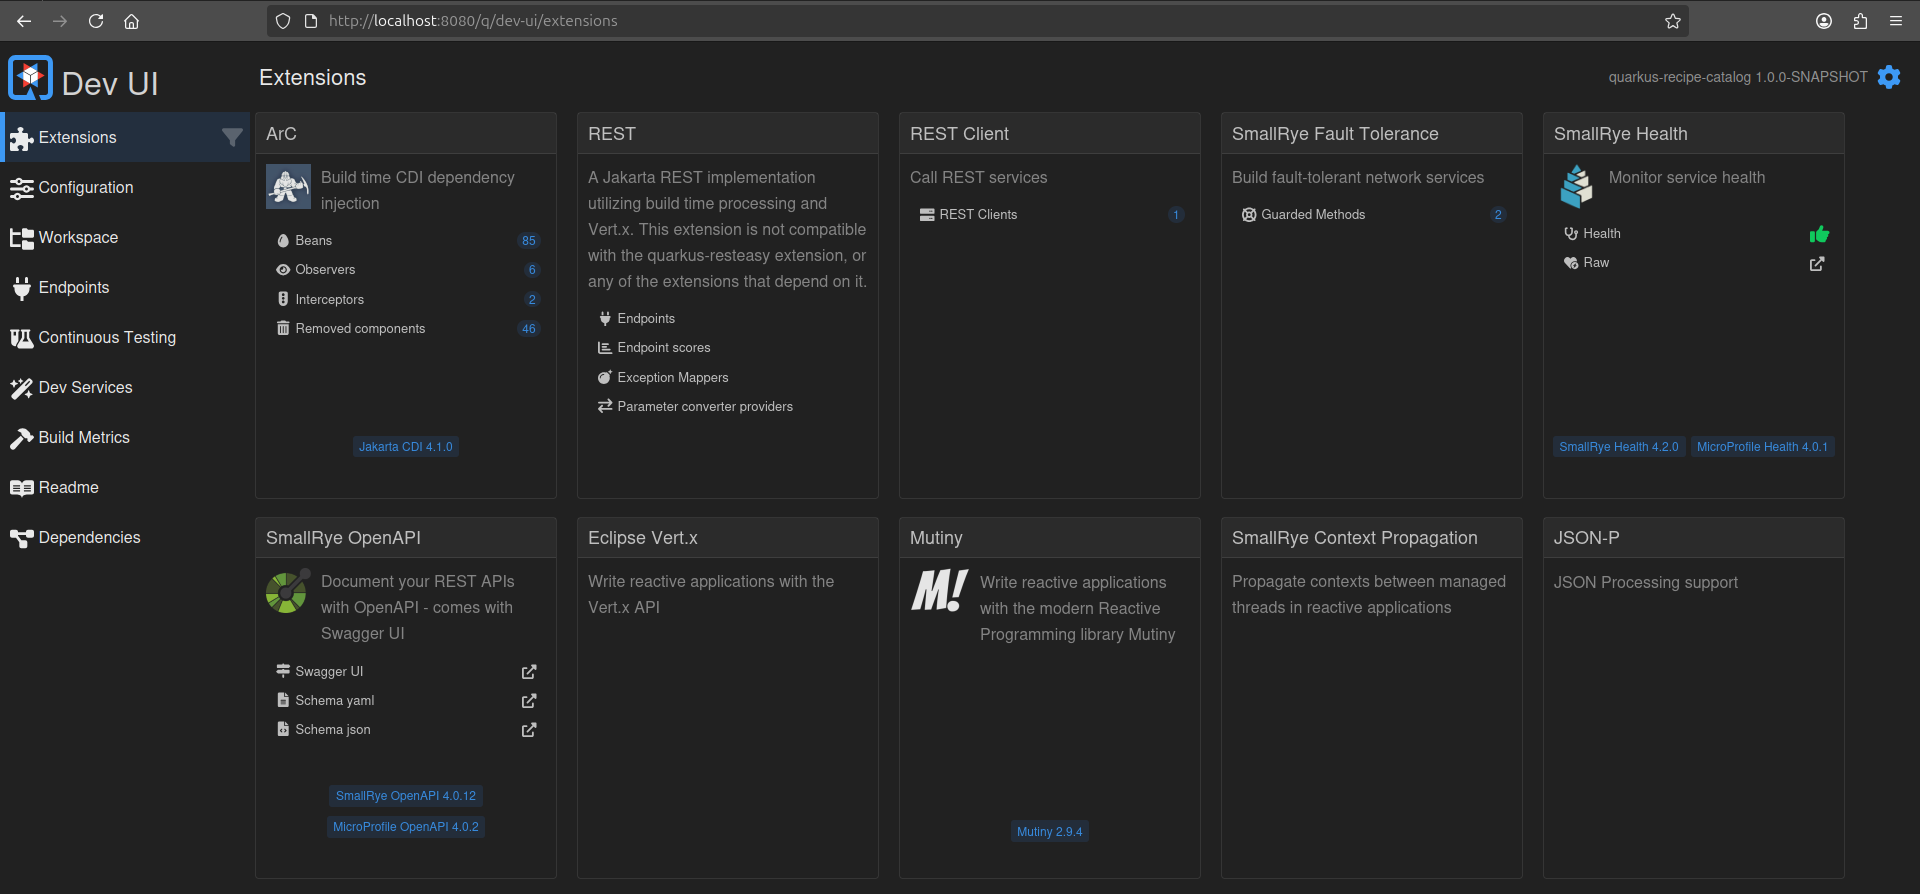
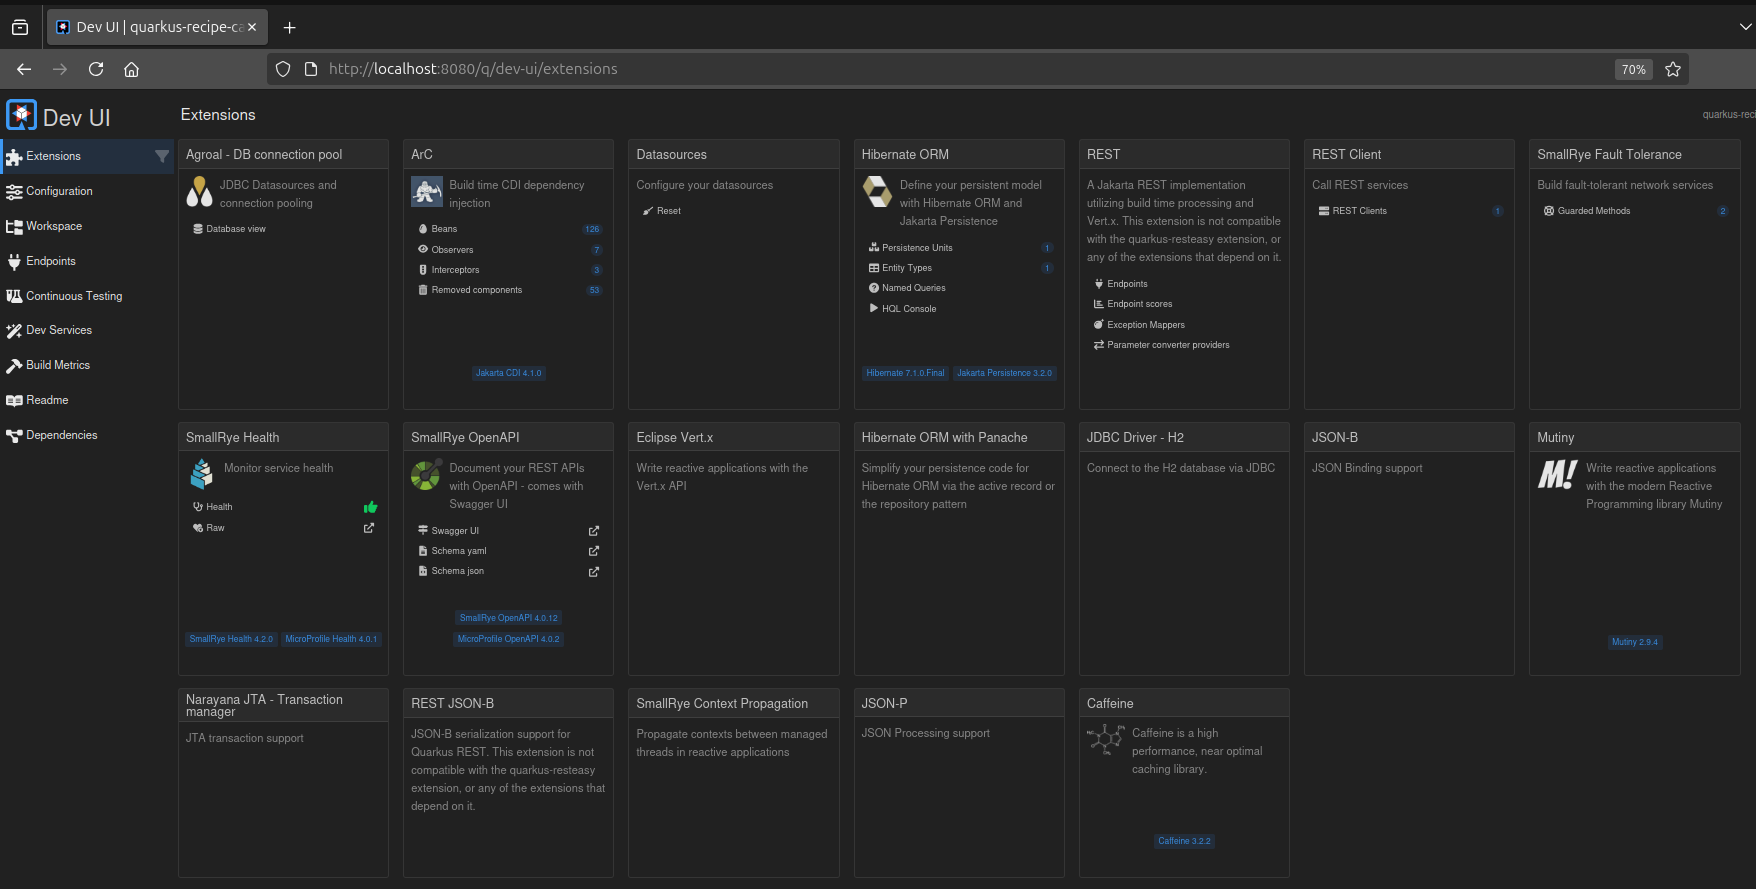
Add MyClient entity and respective Repository and Controller classes (with full-CRUD endpoints)
.

.

.

.

diff --git a/src/main/java/com/danielpm1982/MyClientResource.java b/src/main/java/com/danielpm1982/MyClientResource.java
@@ -1,0 +1,138 @@
+package com.danielpm1982;
+import jakarta.transaction.Transactional;
+import jakarta.ws.rs.*;
+import jakarta.ws.rs.core.MediaType;
+import jakarta.ws.rs.core.Response;
+import org.jboss.resteasy.reactive.RestPath;
+import org.jboss.resteasy.reactive.RestQuery;
+
+@Path("/recipe-app/clients")
+public class MyClientResource {
+    @GET
+    @Path("")
+    @Produces(MediaType.APPLICATION_JSON)
+    public Response getMyClients(){
+        return Response.status(Response.Status.OK)
+                .entity(MyClient.listAll())
+                .type(MediaType.APPLICATION_JSON_TYPE)
+                .build();
+    }
+    @GET
+    @Path("/{id}")
+    @Produces(MediaType.APPLICATION_JSON)
+    public Response getMyClientById(@RestPath Long id){
+        MyClient myClient = MyClient.findById(id);
+        if(myClient!=null) {
+            return Response.status(Response.Status.OK)
+                    .entity(myClient)
+                    .type(MediaType.APPLICATION_JSON_TYPE)
+                    .build();
+        } else{
+            return Response.status(Response.Status.NOT_FOUND)
+                    .entity("ERROR: No registry found for the requested id ! Try again with a valid id !")
+                    .type(MediaType.APPLICATION_JSON_TYPE)
+                    .build();
+        }
+    }
+    @GET
+    @Path("find-by-email")
+    @Produces(MediaType.APPLICATION_JSON)
+    public Response findMyClientsByEmail(@RestQuery String email){
+        return Response.status(Response.Status.OK)
+                .entity(MyClient.findClientByEmail(email))
+                .type(MediaType.APPLICATION_JSON_TYPE)
+                .build();
+    }
+    @GET
+    @Path("find-by-name")
+    @Produces(MediaType.APPLICATION_JSON)
+    public Response findMyClientsByName(@RestQuery String name){
+        return Response.status(Response.Status.OK)
+                .entity(MyClient.findClientByName(name))
+                .type(MediaType.APPLICATION_JSON_TYPE)
+                .build();
+    }
+    @POST
+    @Path("")
+    @Consumes(MediaType.APPLICATION_JSON)
+    @Produces(MediaType.APPLICATION_JSON)
+    @Transactional
+    public Response addMyClient(MyClient myClient){
+        myClient.id=null;
+        MyClient.persist(myClient); //myClient instance is auto-updated with the actual id from the DB
+        return Response.status(Response.Status.CREATED)
+                .entity(MyClient.findById(myClient.id))
+                .type(MediaType.APPLICATION_JSON_TYPE)
+                .build();
+    }
+    @PUT
+    @Path("")
+    @Consumes(MediaType.APPLICATION_JSON)
+    @Produces(MediaType.APPLICATION_JSON)
+    @Transactional
+    public Response updateMyClient(MyClient myClientNew){
+        MyClient myClientOld = MyClient.findById(myClientNew.id);
+        if(myClientOld!=null && myClientNew.name!=null && myClientNew.email!=null && myClientNew.favoriteRecipeIdList!=null) {
+            myClientOld.name=myClientNew.name;
+            myClientOld.email=myClientNew.email;
+            myClientOld.favoriteRecipeIdList=myClientNew.favoriteRecipeIdList;
+            MyClient.persist(myClientOld);
+            return Response.status(Response.Status.CREATED)
+                    .entity(MyClient.findById(myClientOld.id))
+                    .type(MediaType.APPLICATION_JSON_TYPE)
+                    .build();
+        } else{
+            return Response.status(Response.Status.BAD_REQUEST)
+                    .entity("ERROR: No registry found for the requested id, or any of the required parameter values is missing at the request ! "+
+                            "Use a valid id and pass all required parameter values !")
+                    .type(MediaType.APPLICATION_JSON_TYPE)
+                    .build();
+        }
+
+    }
+    @PATCH
+    @Path("")
+    @Consumes(MediaType.APPLICATION_JSON)
+    @Produces(MediaType.APPLICATION_JSON)
+    @Transactional
+    public Response patchMyClient(MyClient myClientNew){
+        MyClient myClientOld = MyClient.findById(myClientNew.id);
+        if(myClientOld!=null) {
+            if (myClientNew.name != null && !myClientNew.name.isBlank()) {
+                myClientOld.name = myClientNew.name;
+            }
+            if (myClientNew.email != null && !myClientNew.email.isBlank()) {
+                myClientOld.email = myClientNew.email;
+            }
+            if (myClientNew.favoriteRecipeIdList != null && !myClientNew.favoriteRecipeIdList.isEmpty()) {
+                myClientOld.favoriteRecipeIdList = myClientNew.favoriteRecipeIdList;
+            }
+            MyClient.persist(myClientOld);
+            return Response.status(Response.Status.CREATED)
+                    .entity(MyClient.findById(myClientOld.id))
+                    .type(MediaType.APPLICATION_JSON_TYPE)
+                    .build();
+        } else{
+            return Response.status(Response.Status.NOT_FOUND)
+                    .entity("ERROR: No registry found for the requested id ! Try again with a valid id !")
+                    .type(MediaType.APPLICATION_JSON_TYPE)
+                    .build();
+        }
+    }
+    @DELETE
+    @Path("/{id}")
+    @Transactional
+    public Response deleteMyClient(@RestPath Long id){
+        MyClient myClient = MyClient.findById(id);
+        if(myClient!=null) {
+            MyClient.deleteById(id);
+            return Response.status(Response.Status.NO_CONTENT)
+                    .build();
+        } else{
+            return Response.status(Response.Status.NOT_FOUND)
+                    .entity("ERROR: No registry found for the requested id ! Try again with a valid id !")
+                    .type(MediaType.APPLICATION_JSON_TYPE)
+                    .build();
+        }
+    }
+}

diff --git a/src/main/java/com/danielpm1982/MyClient.java b/src/main/java/com/danielpm1982/MyClient.java
@@ -1,0 +1,17 @@
+package com.danielpm1982;
+import io.quarkus.hibernate.orm.panache.PanacheEntity;
+import jakarta.persistence.Entity;
+import java.util.List;
+
+@Entity
+public class MyClient extends PanacheEntity {
+    public String name;
+    public String email;
+    public List<Long> favoriteRecipeIdList;
+    public static List<MyClient> findClientByEmail(String email) {
+        return find("email LIKE ?1","%"+email+"%").list();
+    }
+    public static List<MyClient> findClientByName(String name) {
+        return find("name LIKE ?1","%"+name+"%").list();
+    }
+}

diff --git a/README.md b/README.md
@@ -1,11 +1,11 @@
 # quarkus-recipe-catalog
-This is a simple Java Web Service project that exemplifies how to use Quarkus, GraalVM and Truffle, in order to run a Polyglot (Java + Python) Rest Web Application
+This is a simple Java Web Service project that exemplifies how to use Quarkus, GraalVM, Truffle and Panache, in order to run a Polyglot (Java + Python) Rest Web Application (with basic CRUD Persistence)
 
 © 2025 Daniel Pinheiro Maia All Rights Reserved<br>
 (see Copyright© License at the end of this text).
 
 [**Description of this repository**]<br>
-This is a simple Java Web Service project that exemplifies how to use Quarkus, GraalVM and Truffle, in order to run a Polyglot (Java + Python) Rest Web Application. It also shows how to compile your code both using traditional compilation (JVM bytecode), as well as using native-code compilation (processor-level binary code).
+This is a simple Java Web Service project that exemplifies how to use Quarkus, GraalVM, Truffle and Panache, in order to run a Polyglot (Java + Python) Rest Web Application (with basic CRUD Persistence). It also shows how to compile your code both using traditional compilation (JVM bytecode), as well as using native-code compilation (processor-level binary code).
 
 Here we present a REST Web Service, written in Java and Python, and built using Quarkus framework + Maven + Oracle GraalVM. GraalVM's JIT (Just-In-Time) and AOT (Ahead-Of-Time) compilers are used in compilation. GraalVM is a high-performance Java Virtual Machine - with its runtime and compilers - which not only supports Java, Scala, and Groovy, but also enables the execution of other popular programming languages in one same application. This polyglot capability is made possible by additional frameworks, such as Truffle and Sulong, which can be integrated with GraalVM.
 
@@ -19,7 +19,9 @@ Native images are specially useful when running microservices, serverless archit
 
 This example project demonstrates both the traditional compilation approach (with polyglot support via GraalVM+Truffle) as the native image compilation approach (without a JVM). You can observe the performance differences at each lifecycle phase and evaluate the trade-offs based on your needs.
 
-In terms of business logic, this app simply creates a Rest Client, i.e., a proxy, that access an external recipe app API, and returns one or more recipes as a JSON. This Rest Client is configured as a Service interface, which is injected at a concrete Resource classes, which, in turn, call the methods from this Service: one for retrieving all recipes and another for retrieving one recipe per id. A Response object is then mounted and returned (for each endpoint), based on the String responses from Service Rest Client proxy methods, containing the JSON data from the external API calls. Fault tolerance is fully implemented, with features as timeout, fallback methods, circuit breakers, liveness check and readiness check.    
+In terms of business logic, this app basically creates a Rest Client, i.e., a proxy, that access an external recipe app API, and returns one or more recipes as a JSON. This Rest Client is configured as a Service interface, which is injected at concrete Resource classes, that, in turn, call the methods from this Service: one for retrieving all recipes and another for retrieving one recipe per id. A Response object is then mounted and returned (for each endpoint), based on the String responses from Service Rest Client proxy methods, containing the JSON data from the external API calls. Fault tolerance management is fully implemented, with features as: timeout, fallback methods, circuit breakers, liveness and readiness check. 
+
+Regarding Persistence, MyClient object data is mapped into an in-memory H2 DB, through the use of Panache framework (which is implemented on top of Hibernate / JPA - ORM). This DB keeps the client id, name, email and a list of favorite recipes' ids at data registries. By using these locally stored favorite recipes' ids, one is able to fetch each client's favorite recipe from the remote API, through the Rest Client proxy. Resource "CRUD" endpoints, for managing the remote API recipes, as well as the local MyClient entities (and DB registries), have been implemented. You can test these through the Swagger interface, as below described. In a real commercial app, a better separation of layers should be designed, regarding the Entities, Repositories, Services and Controllers. The objective here is simply to show the basics of Quarkus, GraalVM, Truffle and Panache.  
 
 [**Content and Run**]<br>
 Source code available at github.com, through the following link:<br>
